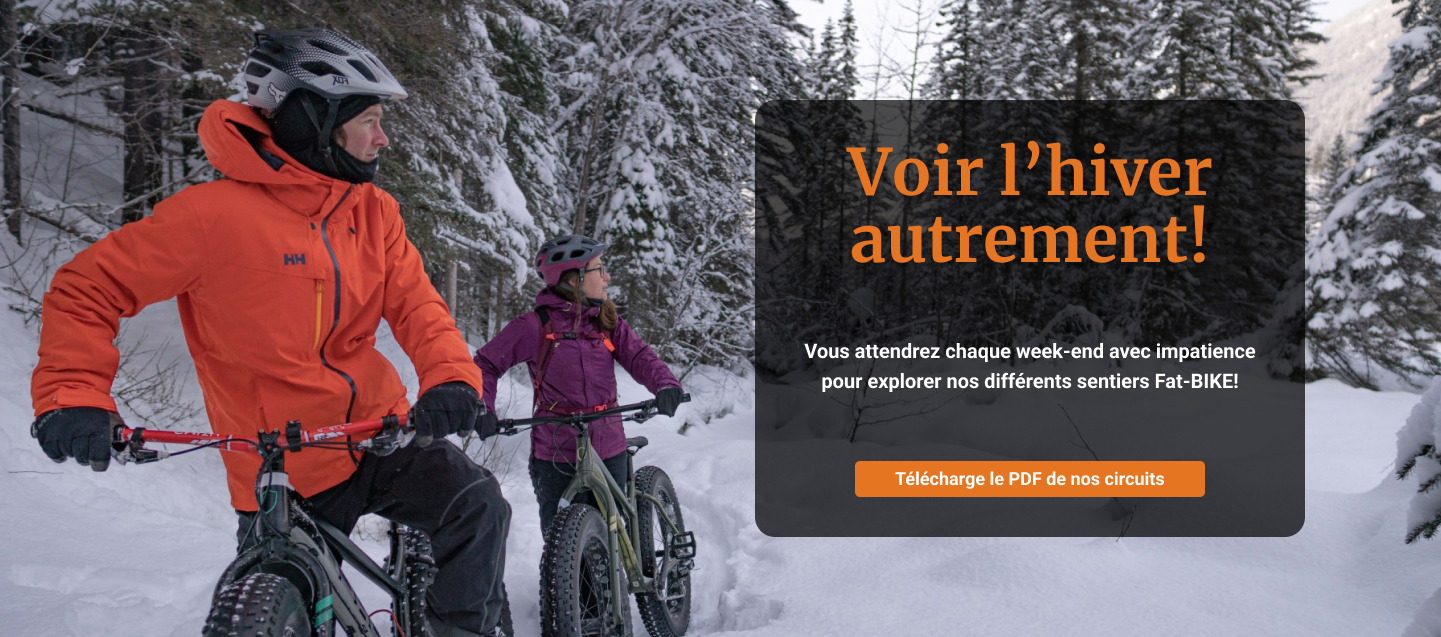
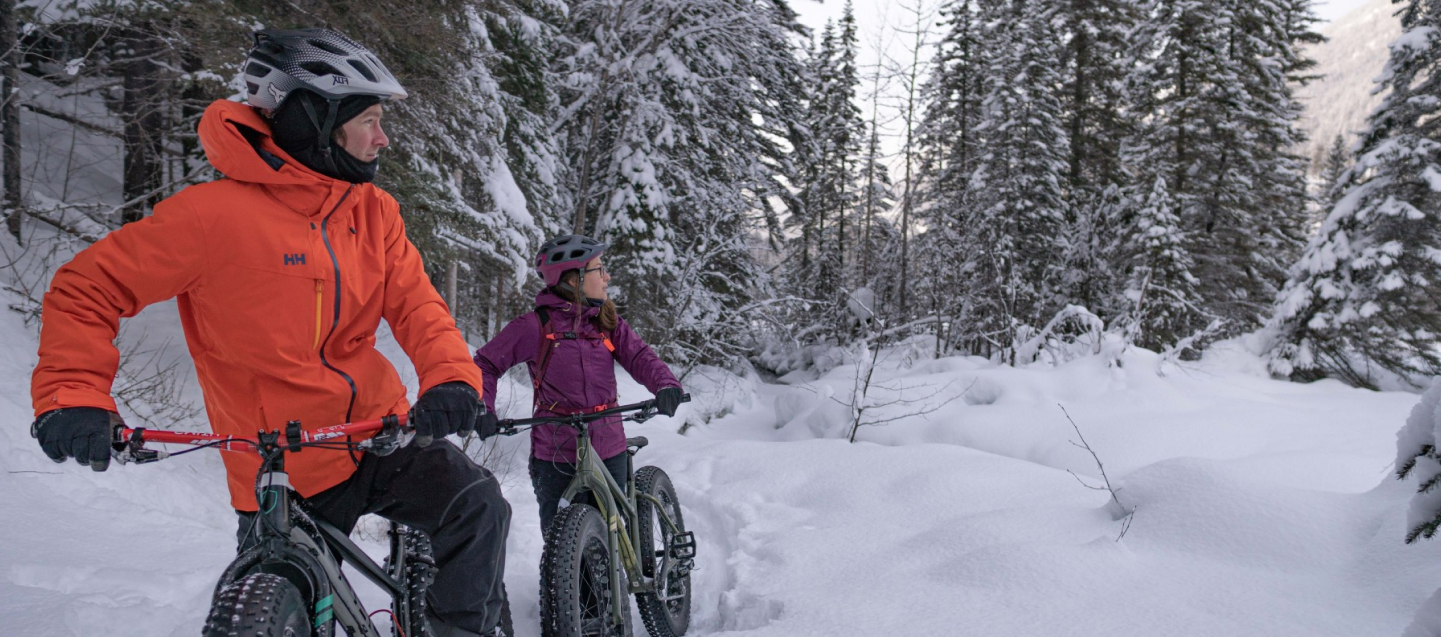
Vélo 4 saisons modification 3

Changed region(s): [[0.4997, 0.1491, 0.9056, 0.865]]

diff --git a/css/styles.css b/css/styles.css
@@ -19,6 +19,7 @@ body{
     font-weight: 400;
     font-style: normal;
 
+
   /*  font-family: "Merriweather", serif;
     font-weight: 400;
     font-style: normal;*/
@@ -35,6 +36,8 @@ header{
     background-color: #379AE3;
     width: 100%;
     position: fixed;
+
+    font-size: 18px;
 }
 
 header ul{
@@ -43,6 +46,10 @@ header ul{
     justify-content: center;
     list-style: none;
     
+}
+
+header ul :hover{
+    color: white;
 }
     
 header div{
@@ -53,4 +60,32 @@ header div{
 
 a{
     text-decoration: none;
+    color: black;
+    font-weight: bold;
 }    
+
+.logo{
+    font-family: "Merriweather", serif;
+    font-weight: 400;
+    font-style: normal;
+
+    font-size: 24px ;
+}
+
+.billets{
+    border: 2px solid black;
+    background-color: white;
+    padding: 10px 30px 10px 30px;
+    border-radius: 5px;
+}
+
+
+/*   HERO   */
+
+.hero{
+    background-image: url(../images/Hero\ image\ droite.jpg);
+    height: 637px;
+    background-repeat: no-repeat;
+    background-position: center;
+    background-size: cover;
+}
